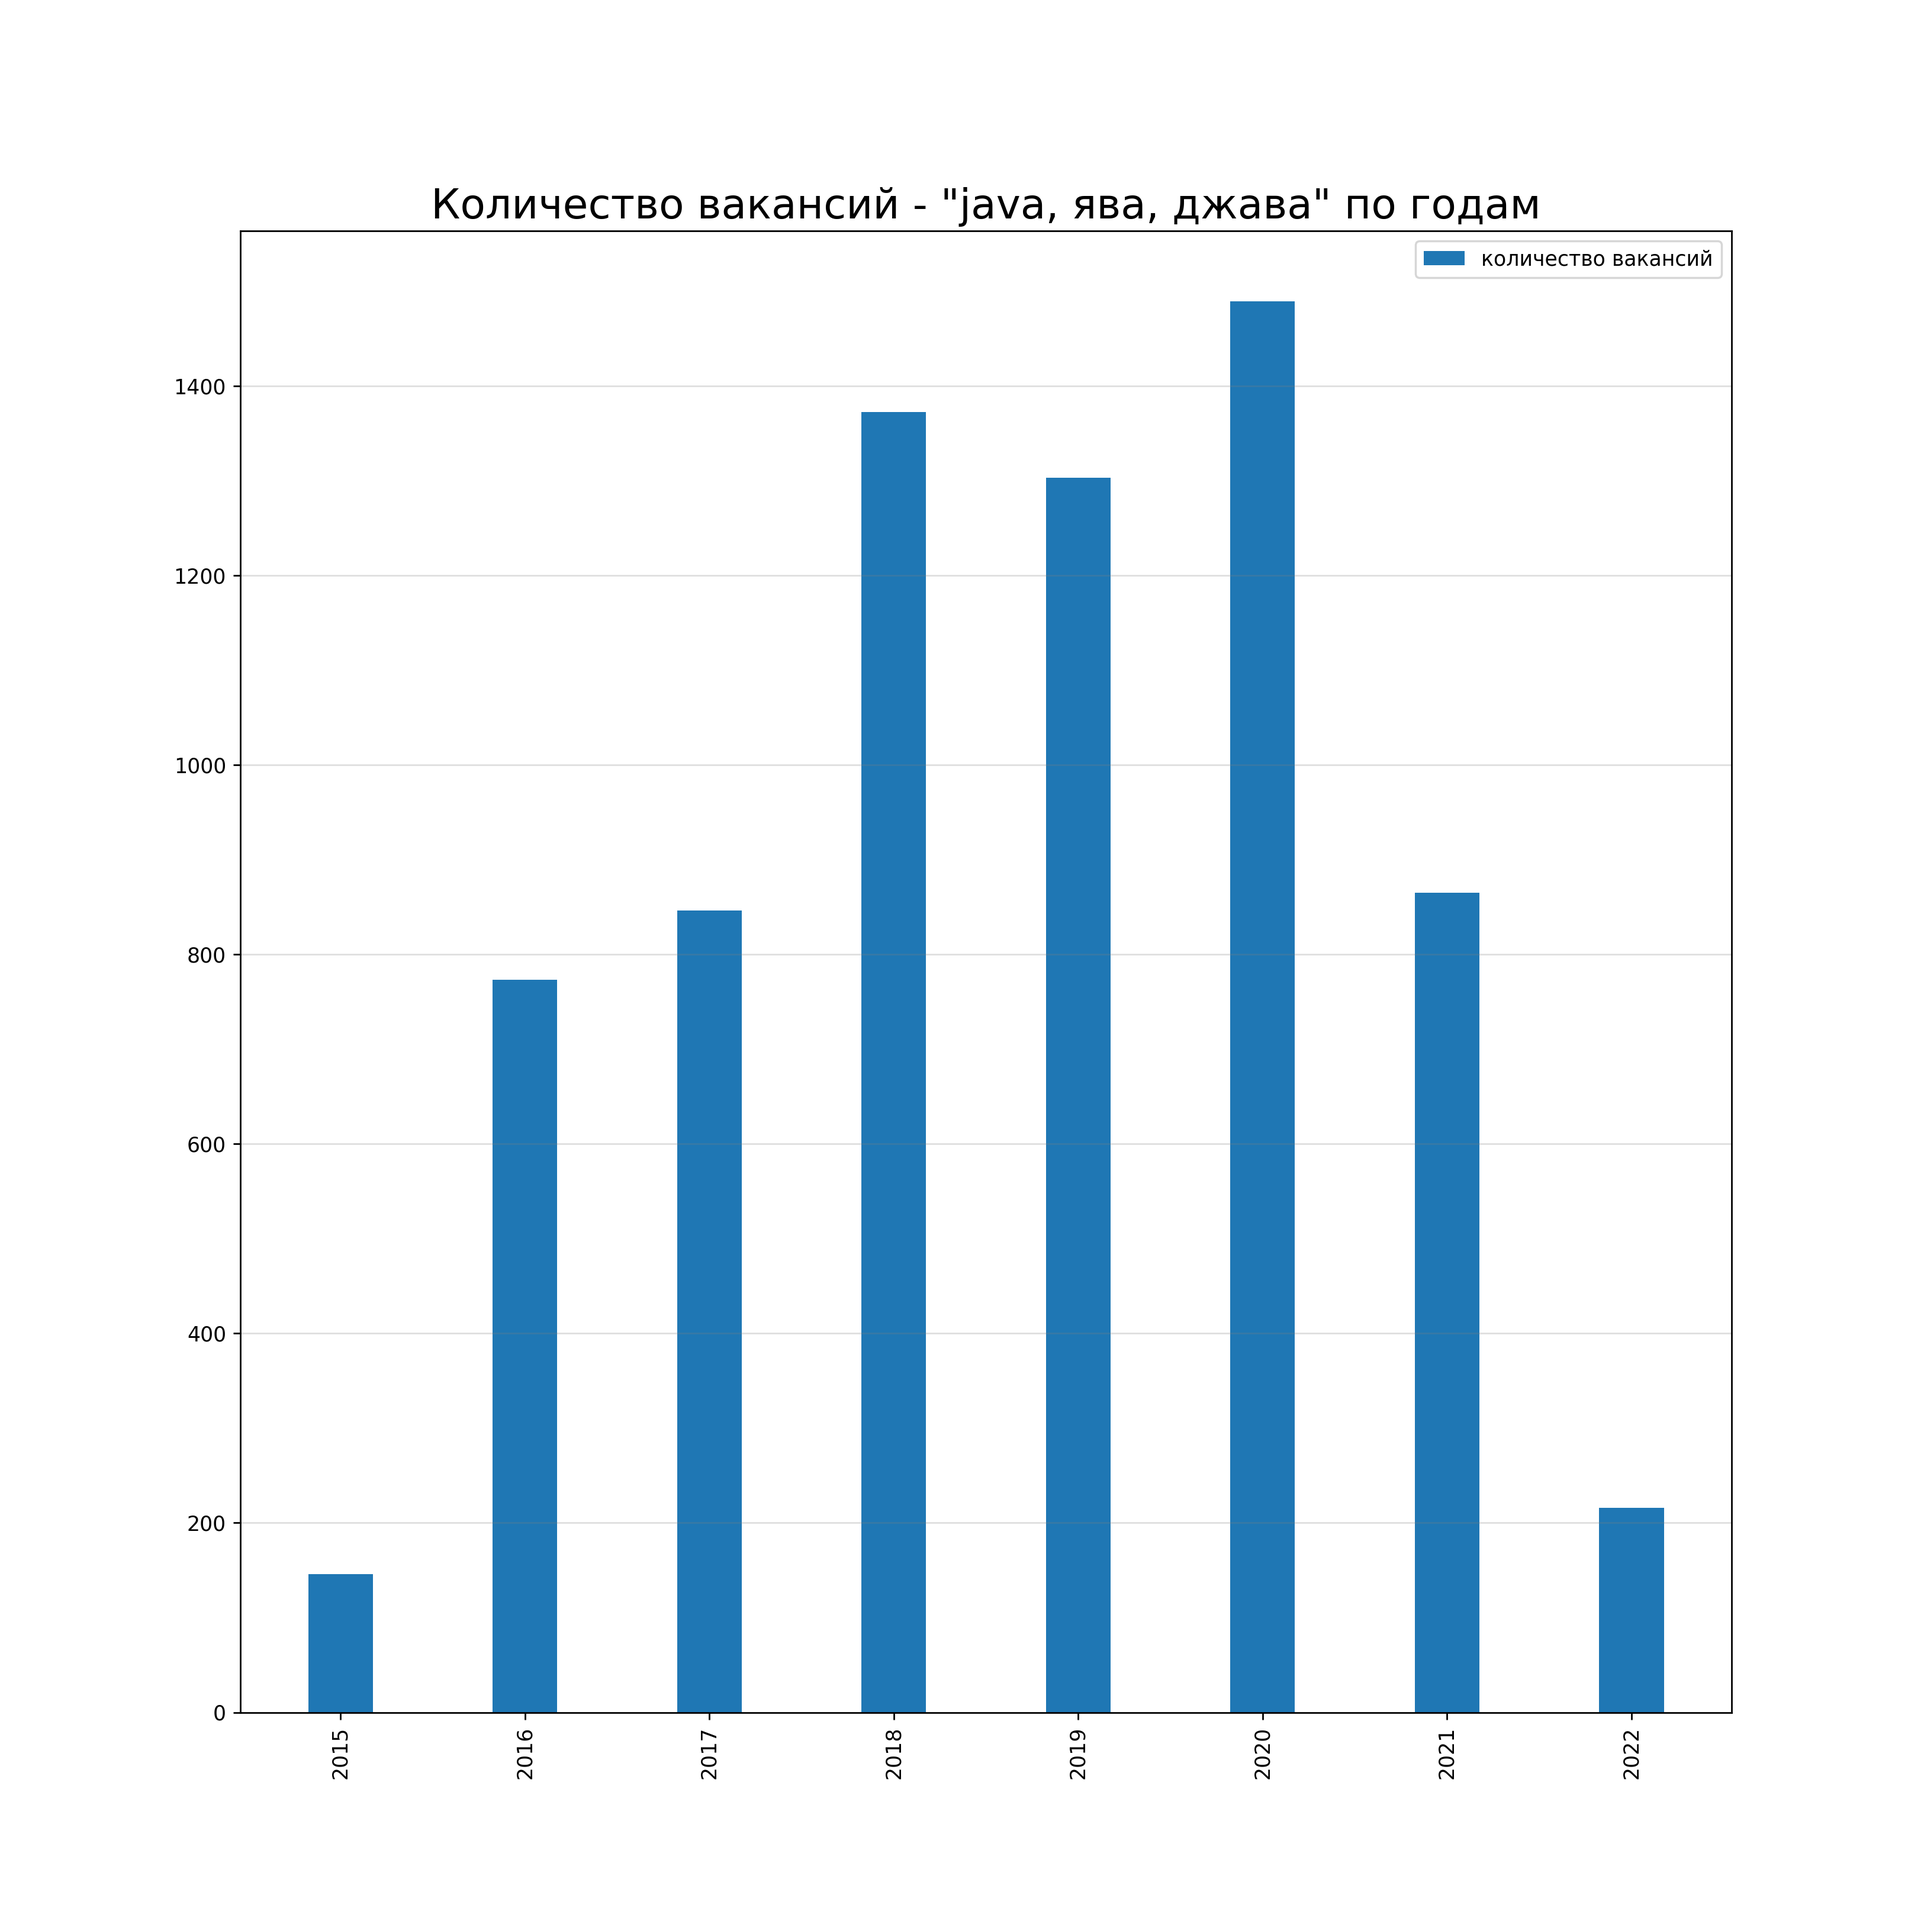
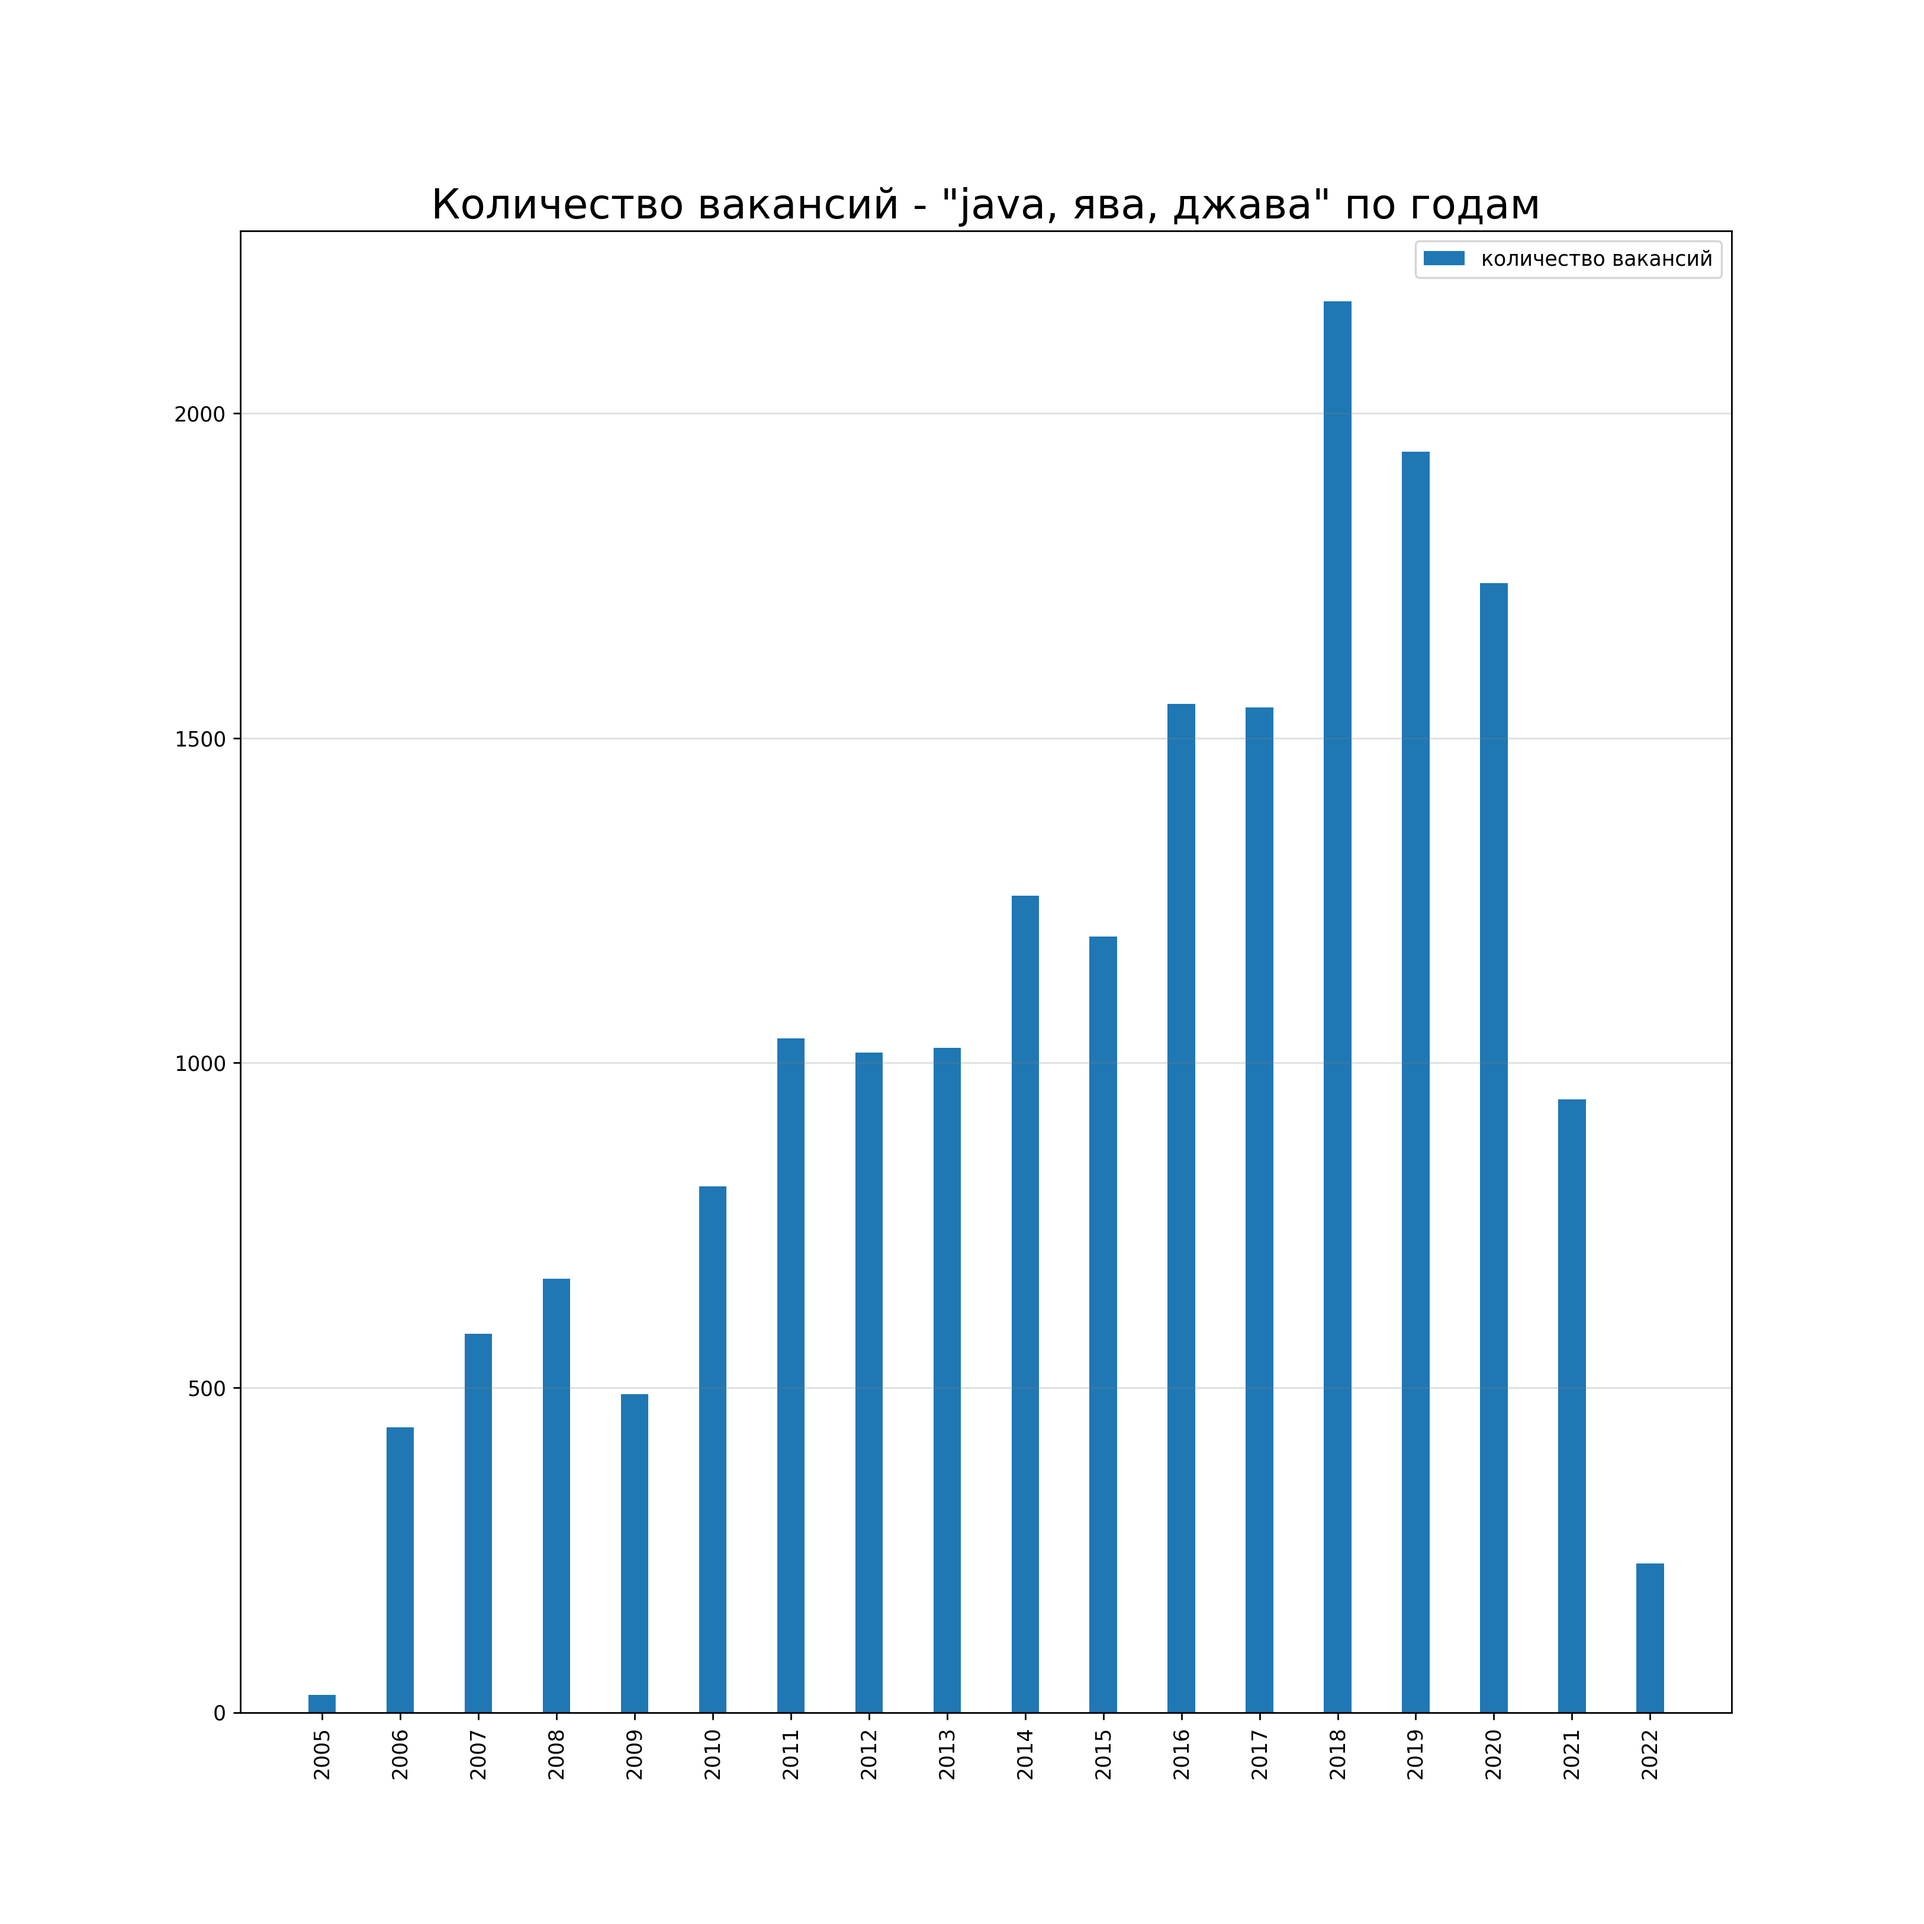
fixed image bug

Changed region(s): [[0.1554, 0.1554, 0.8702, 0.9323], [0.0932, 0.3729, 0.1243, 0.404], [0.0932, 0.1865, 0.1243, 0.2175]]

diff --git a/analytics/java_developer_analytic/templates/demand.html b/analytics/java_developer_analytic/templates/demand.html
@@ -91,7 +91,7 @@
                      <th>Год</th>
                      <th>Средняя зарплата - Java-программист</th>
                     </tr>
-                    <tr><td>2005</td><td>0</td></tr><tr><td>2006</td><td>101206</td></tr><tr><td>2007</td><td>117882</td></tr><tr><td>2008</td><td>106327</td></tr><tr><td>2009</td><td>66779</td></tr><tr><td>2010</td><td>75293</td></tr><tr><td>2011</td><td>64324</td></tr><tr><td>2012</td><td>76050</td></tr><tr><td>2013</td><td>79237</td></tr><tr><td>2014</td><td>67843</td></tr><tr><td>2015</td><td>81474</td></tr><tr><td>2016</td><td>92356</td></tr><tr><td>2017</td><td>83624</td></tr><tr><td>2018</td><td>100369</td></tr><tr><td>2019</td><td>101849</td></tr><tr><td>2020</td><td>131426</td></tr><tr><td>2021</td><td>145136</td></tr><tr><td>2022</td><td>254285</td></tr>
+                    <tr><td>2005</td><td>86215</td></tr><tr><td>2006</td><td>108392</td></tr><tr><td>2007</td><td>121676</td></tr><tr><td>2008</td><td>101776</td></tr><tr><td>2009</td><td>74887</td></tr><tr><td>2010</td><td>80994</td></tr><tr><td>2011</td><td>78972</td></tr><tr><td>2012</td><td>81004</td></tr><tr><td>2013</td><td>86920</td></tr><tr><td>2014</td><td>88732</td></tr><tr><td>2015</td><td>102831</td></tr><tr><td>2016</td><td>124917</td></tr><tr><td>2017</td><td>122160</td></tr><tr><td>2018</td><td>144234</td></tr><tr><td>2019</td><td>131143</td></tr><tr><td>2020</td><td>137153</td></tr><tr><td>2021</td><td>187813</td></tr><tr><td>2022</td><td>216867</td></tr>
                    </table>
                 <img src="{% static 'images/selected_salary_dynamics.png' %}">
             </div>
@@ -102,7 +102,7 @@
                      <th>Год</th>
                      <th>Количество вакансий - Java-программист</th>
                     </tr>
-                    <tr><td>2005</td><td>0</td></tr><tr><td>2006</td><td>19</td></tr><tr><td>2007</td><td>21</td></tr><tr><td>2008</td><td>20</td></tr><tr><td>2009</td><td>25</td></tr><tr><td>2010</td><td>23</td></tr><tr><td>2011</td><td>50</td></tr><tr><td>2012</td><td>81</td></tr><tr><td>2013</td><td>89</td></tr><tr><td>2014</td><td>69</td></tr><tr><td>2015</td><td>54</td></tr><tr><td>2016</td><td>84</td></tr><tr><td>2017</td><td>75</td></tr><tr><td>2018</td><td>101</td></tr><tr><td>2019</td><td>123</td></tr><tr><td>2020</td><td>86</td></tr><tr><td>2021</td><td>23</td></tr><tr><td>2022</td><td>7</td></tr>
+                    <tr><td>2005</td><td>27</td></tr><tr><td>2006</td><td>439</td></tr><tr><td>2007</td><td>583</td></tr><tr><td>2008</td><td>668</td></tr><tr><td>2009</td><td>490</td></tr><tr><td>2010</td><td>810</td></tr><tr><td>2011</td><td>1038</td></tr><tr><td>2012</td><td>1016</td></tr><tr><td>2013</td><td>1023</td></tr><tr><td>2014</td><td>1257</td></tr><tr><td>2015</td><td>1194</td></tr><tr><td>2016</td><td>1552</td></tr><tr><td>2017</td><td>1547</td></tr><tr><td>2018</td><td>2172</td></tr><tr><td>2019</td><td>1941</td></tr><tr><td>2020</td><td>1738</td></tr><tr><td>2021</td><td>944</td></tr><tr><td>2022</td><td>229</td></tr>
                    </table>
                 <img src="{% static 'images/selected_num_vacancies_dynamics.png' %}">
             </div>

diff --git a/analytics/java_developer_analytic/templates/geography.html b/analytics/java_developer_analytic/templates/geography.html
@@ -80,7 +80,7 @@
                      <th>Город</th>
                      <th>Доля вакансий</th>
                     </tr>
-                    <tr><td>Томск</td><td>0.0107%</td></tr><tr><td>Красноярск</td><td>0.0124%</td></tr><tr><td>Воронеж</td><td>0.0125%</td></tr><tr><td>Нур-Султан</td><td>0.0125%</td></tr><tr><td>Пермь</td><td>0.0126%</td></tr><tr><td>Уфа</td><td>0.0127%</td></tr><tr><td>Челябинск</td><td>0.0135%</td></tr><tr><td>Самара</td><td>0.0137%</td></tr><tr><td>Киев</td><td>0.0153%</td></tr><tr><td>Ростов-на-Дону</td><td>0.0186%</td></tr>
+                    <tr><td>Уфа</td><td>0.0102%</td></tr><tr><td>Пермь</td><td>0.0108%</td></tr><tr><td>Красноярск</td><td>0.0109%</td></tr><tr><td>Воронеж</td><td>0.0124%</td></tr><tr><td>Самара</td><td>0.0126%</td></tr><tr><td>Киев</td><td>0.0136%</td></tr><tr><td>Краснодар</td><td>0.0159%</td></tr><tr><td>Екатеринбург</td><td>0.0182%</td></tr><tr><td>Ростов-на-Дону</td><td>0.0182%</td></tr><tr><td>Алматы</td><td>0.019%</td></tr>
                    </table>
                 <img src="{% static 'images/city_num_vacancies_dynamics.png' %}">
             </div>

diff --git a/analytics_calculation/year.py b/analytics_calculation/year.py
@@ -34,9 +34,9 @@ class Year:
         self.__selected_vacancy_all_salary = vacancy.average_salary if is_selected_vacancy else 0
         self.__selected_vacancy_average_salary = vacancy.average_salary if is_selected_vacancy else 0
 
-        if is_selected_vacancy:
-            for skill in vacancy.skills:
-                self.__skills[skill] = 1
+        # if is_selected_vacancy:
+        #     for skill in vacancy.skills:
+        #         self.__skills[skill] = 1
 
     @property
     def skills(self):
@@ -93,8 +93,8 @@ class Year:
                 self.__selected_vacancy_average_salary = self.__selected_vacancy_all_salary / self. \
                     __selected_vacancy_count
 
-                for skill in vacancy.skills:
-                    if skill in self.__skills.keys():
-                        self.__skills[skill] += 1
-                    else:
-                        self.__skills[skill] = 1
+                # for skill in vacancy.skills:
+                #     if skill in self.__skills.keys():
+                #         self.__skills[skill] += 1
+                #     else:
+                #         self.__skills[skill] = 1

diff --git a/analytics_calculation/report.py b/analytics_calculation/report.py
@@ -68,7 +68,7 @@ class Report:
                                      self.__statistic.city_num_vacancies_dynamics.keys(),
                                      'Количество вакансий по городам',
                                      'city_num_vacancies_dynamics.png')
-        self.generate_skills_images()
+        # self.generate_skills_images()
 
     def generate_skills_images(self):
         for year in self.__statistic.top_skills_by_year.keys():
@@ -125,8 +125,8 @@ class Report:
                            '!selected_salary_dynamics!')
         self.paste_in_html('demand.html', 'demand.html', selected_num_vacancies_dynamics,
                            '!selected_num_vacancies_dynamics!')
-        self.paste_in_html('skills.html', 'skills.html', skills_tables,
-                           '!skills_tables!')
+        # self.paste_in_html('skills.html', 'skills.html', skills_tables,
+        #                    '!skills_tables!')
 
     def paste_in_html(self, file_name: str, new_file_name: str, string: str, string_name: str):
         file = open(file_name, "r", encoding='utf-8-sig')

diff --git a/analytics_calculation/vacancy.py b/analytics_calculation/vacancy.py
@@ -29,11 +29,11 @@ class Vacancy:
         self.__salary_to = float(row_dict['salary_to'])
         self.__salary_curr = row_dict['salary_currency']
         self.__average_salary = (self.__salary_from + self.__salary_to) / 2 * self.currency_to_rub[self.__salary_curr]
-        self.__skills = row_dict['key_skills'].split("\n")
+        # self.__skills = row_dict['key_skills'].split("\n")
 
-    @property
-    def skills(self):
-        return self.__skills
+    # @property
+    # def skills(self):
+    #     return self.__skills
 
     @property
     def name(self):

diff --git a/analytics_calculation/statistic.py b/analytics_calculation/statistic.py
@@ -190,5 +190,5 @@ class Statistic:
                                                          key=lambda x: x[1].vacancy_count)[:10])
         self.__city_num_vacancies_dynamics = {key: round(val.vacancy_count / self.__vacancies_count, 4)
                                               for key, val in self.__city_num_vacancies_dynamics.items()}
-        self.calculate_skill_statistics()
+        # self.calculate_skill_statistics()
         self.__fulfillment = True

diff --git a/analytics_calculation/main.py b/analytics_calculation/main.py
@@ -18,6 +18,6 @@ def print_statistics_report(vacancy_data: list):
     report.render_html_tables()
 
 
-file_name = 'vacancies_with_skills.csv'
+file_name = 'vacancies_dif_currencies.csv'
 data = DataSet(file_name).data
 print_statistics_report(data)
